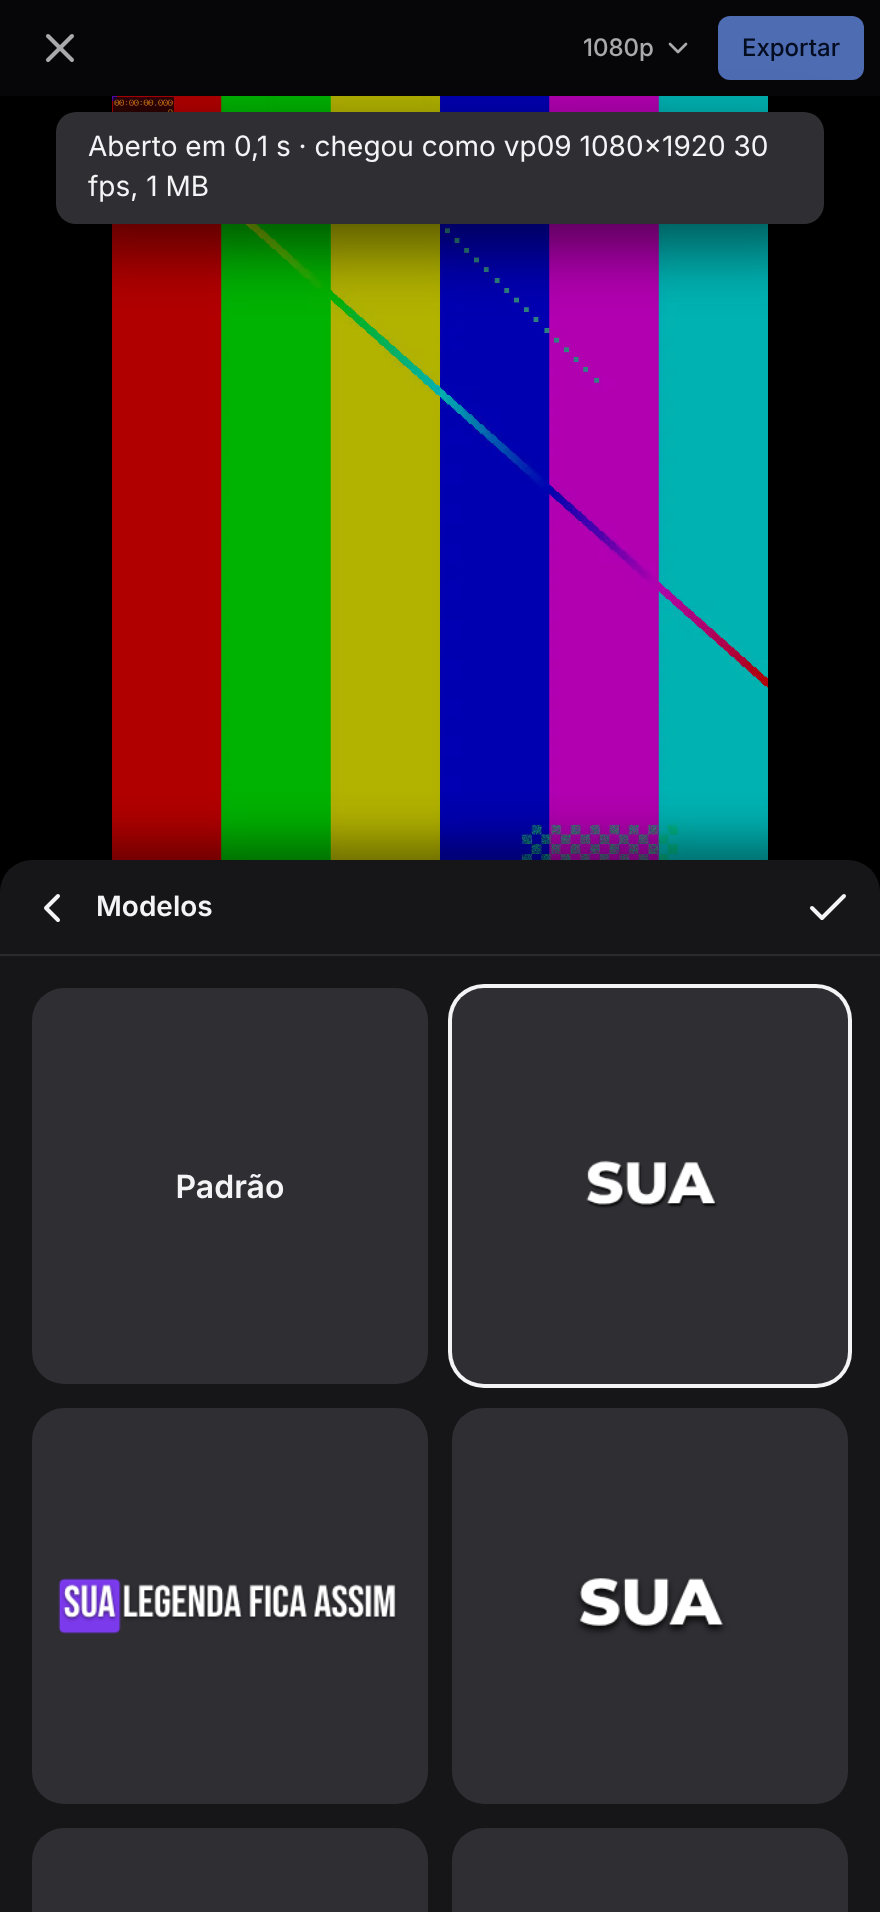
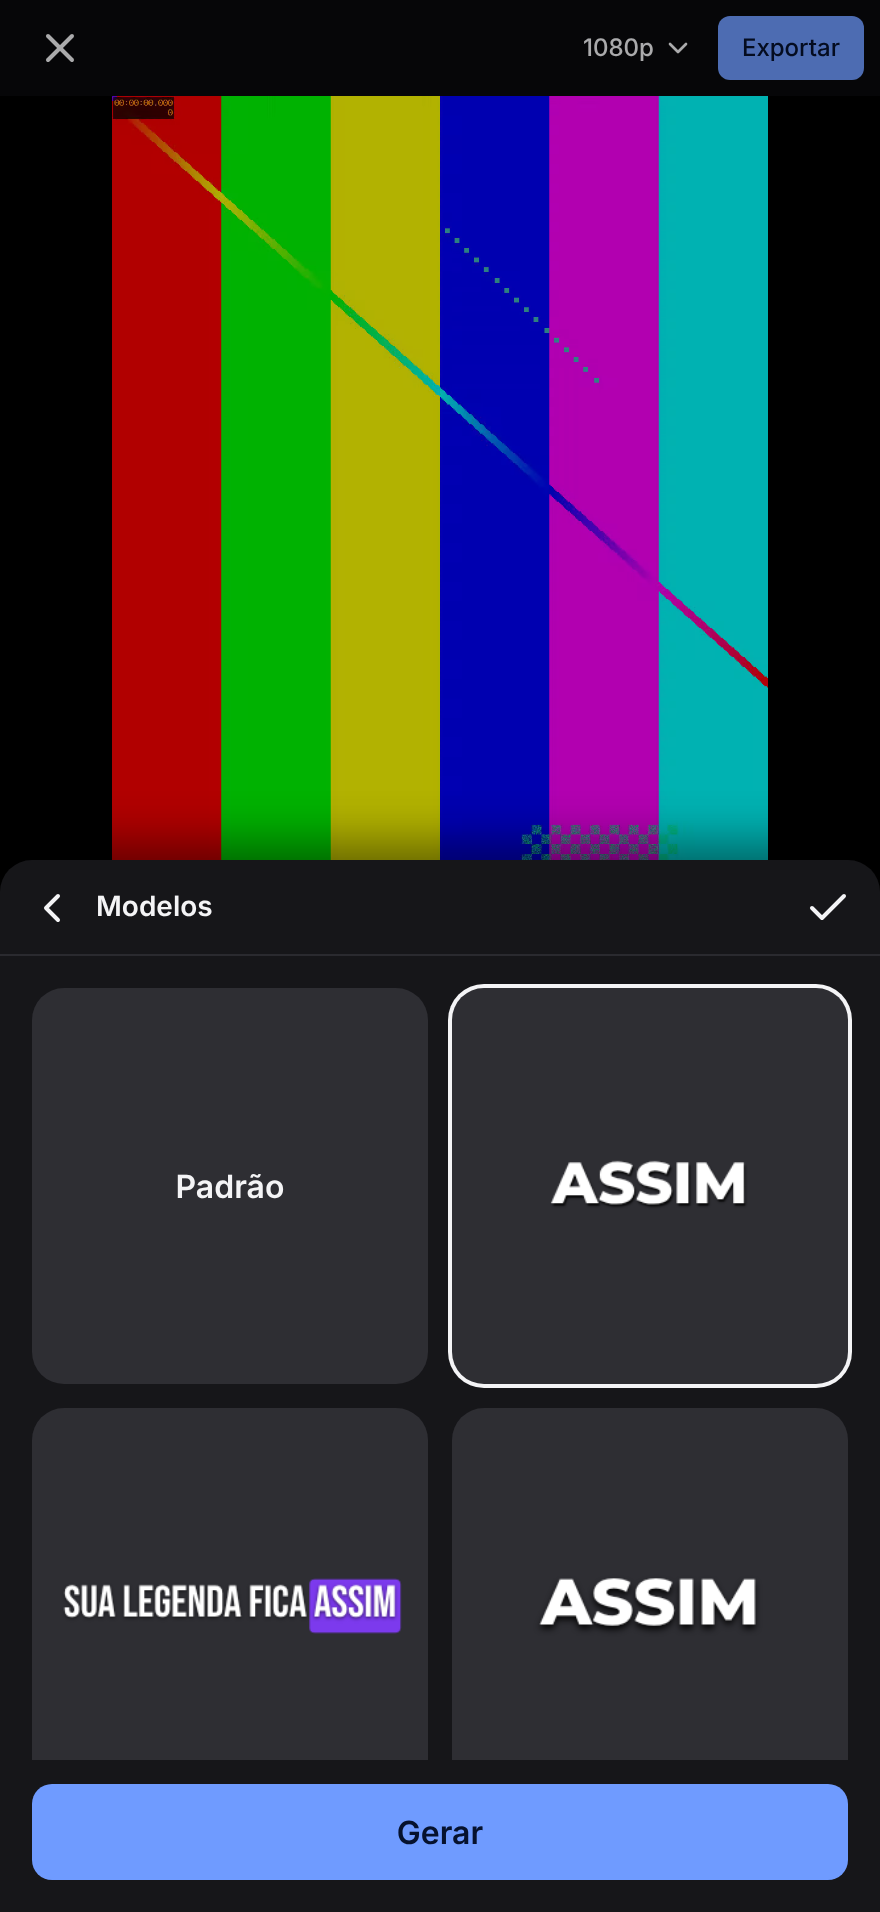
build: Gerar on the templates page; app updates itself on open
The full template grid keeps a Gerar button at the bottom, as in CapCut.
The service worker now checks for a new version whenever the home-screen
app comes back to the front and switches to it on the home screen (inside
the editor it waits until you go back home).

Claude-Session: https://claude.ai/code/session_0171u1mNBnwSWvSmcMh16wpa

diff --git a/app/src/screens/CaptionSheet.tsx b/app/src/screens/CaptionSheet.tsx
@@ -321,7 +321,27 @@ export function CaptionSheet({
       title: "Idioma de origem",
       body: <ListPicker label="Idioma de origem" value={prefs.language} options={LANGUAGES} onPick={(language) => (savePrefs({ ...prefs, language }), setPage("main"))} />,
     },
-    templates: { title: "Modelos", body: <TemplateGrid value={prefs.preset} onPick={(preset) => (savePrefs({ ...prefs, preset }), setPage("main"))} /> },
+    templates: {
+      title: "Modelos",
+      body: (
+        <>
+          <TemplateGrid value={prefs.preset} onPick={(preset) => savePrefs({ ...prefs, preset })} />
+          <div className="sticky -bottom-4 -mx-4 -mb-4 mt-4 bg-surface px-4 pb-4 pt-3">
+            <Button
+              variant="primary"
+              size="lg"
+              className="w-full"
+              onClick={() => {
+                setPage("main"); // the progress shows there
+                void generate();
+              }}
+            >
+              Gerar
+            </Button>
+          </div>
+        </>
+      ),
+    },
   }[page];
 
   const editTab = track ? (

diff --git a/app/src/app/updates.ts b/app/src/app/updates.ts
@@ -1,0 +1,27 @@
+// New versions of the app. iOS keeps a home-screen app alive in memory, so
+// besides the check at start we look again whenever it comes back to the
+// front. An update found on the home screen applies at once; inside the
+// editor it waits until you go back home, so an edit is never cut short.
+import { registerSW } from "virtual:pwa-register";
+import { parse } from "./router";
+
+export function watchForUpdates() {
+  let ready = false;
+  const atHome = () => parse(location.hash).name === "home";
+  const update = registerSW({
+    immediate: true,
+    onNeedRefresh() {
+      ready = true;
+      if (atHome()) void update(true);
+    },
+    onRegisteredSW(_url, reg) {
+      if (!reg) return;
+      document.addEventListener("visibilitychange", () => {
+        if (document.visibilityState === "visible") void reg.update().catch(() => {});
+      });
+    },
+  });
+  window.addEventListener("hashchange", () => {
+    if (ready && atHome()) void update(true);
+  });
+}

diff --git a/app/src/main.tsx b/app/src/main.tsx
@@ -2,6 +2,7 @@ import { StrictMode } from "react";
 import { createRoot } from "react-dom/client";
 import "./styles/index.css";
 import { useRoute } from "./app/router";
+import { watchForUpdates } from "./app/updates";
 import { DesignPage } from "./design/DesignPage";
 import { Editor } from "./screens/Editor";
 import { Home } from "./screens/Home";
@@ -13,6 +14,8 @@ function App() {
   if (route.name === "design") return <DesignPage />;
   return <Home />;
 }
+
+watchForUpdates();
 
 createRoot(document.getElementById("root")!).render(
   <StrictMode>

diff --git a/app/vite.config.ts b/app/vite.config.ts
@@ -19,7 +19,8 @@ export default defineConfig({
     tailwindcss(),
     dropOrtWasm,
     VitePWA({
-      registerType: "autoUpdate",
+      registerType: "prompt", // src/app/updates.ts decides when to switch
+      injectRegister: false,
       includeAssets: ["apple-touch-icon.png", "favicon.png"],
       manifest: {
         name: "Editor",
